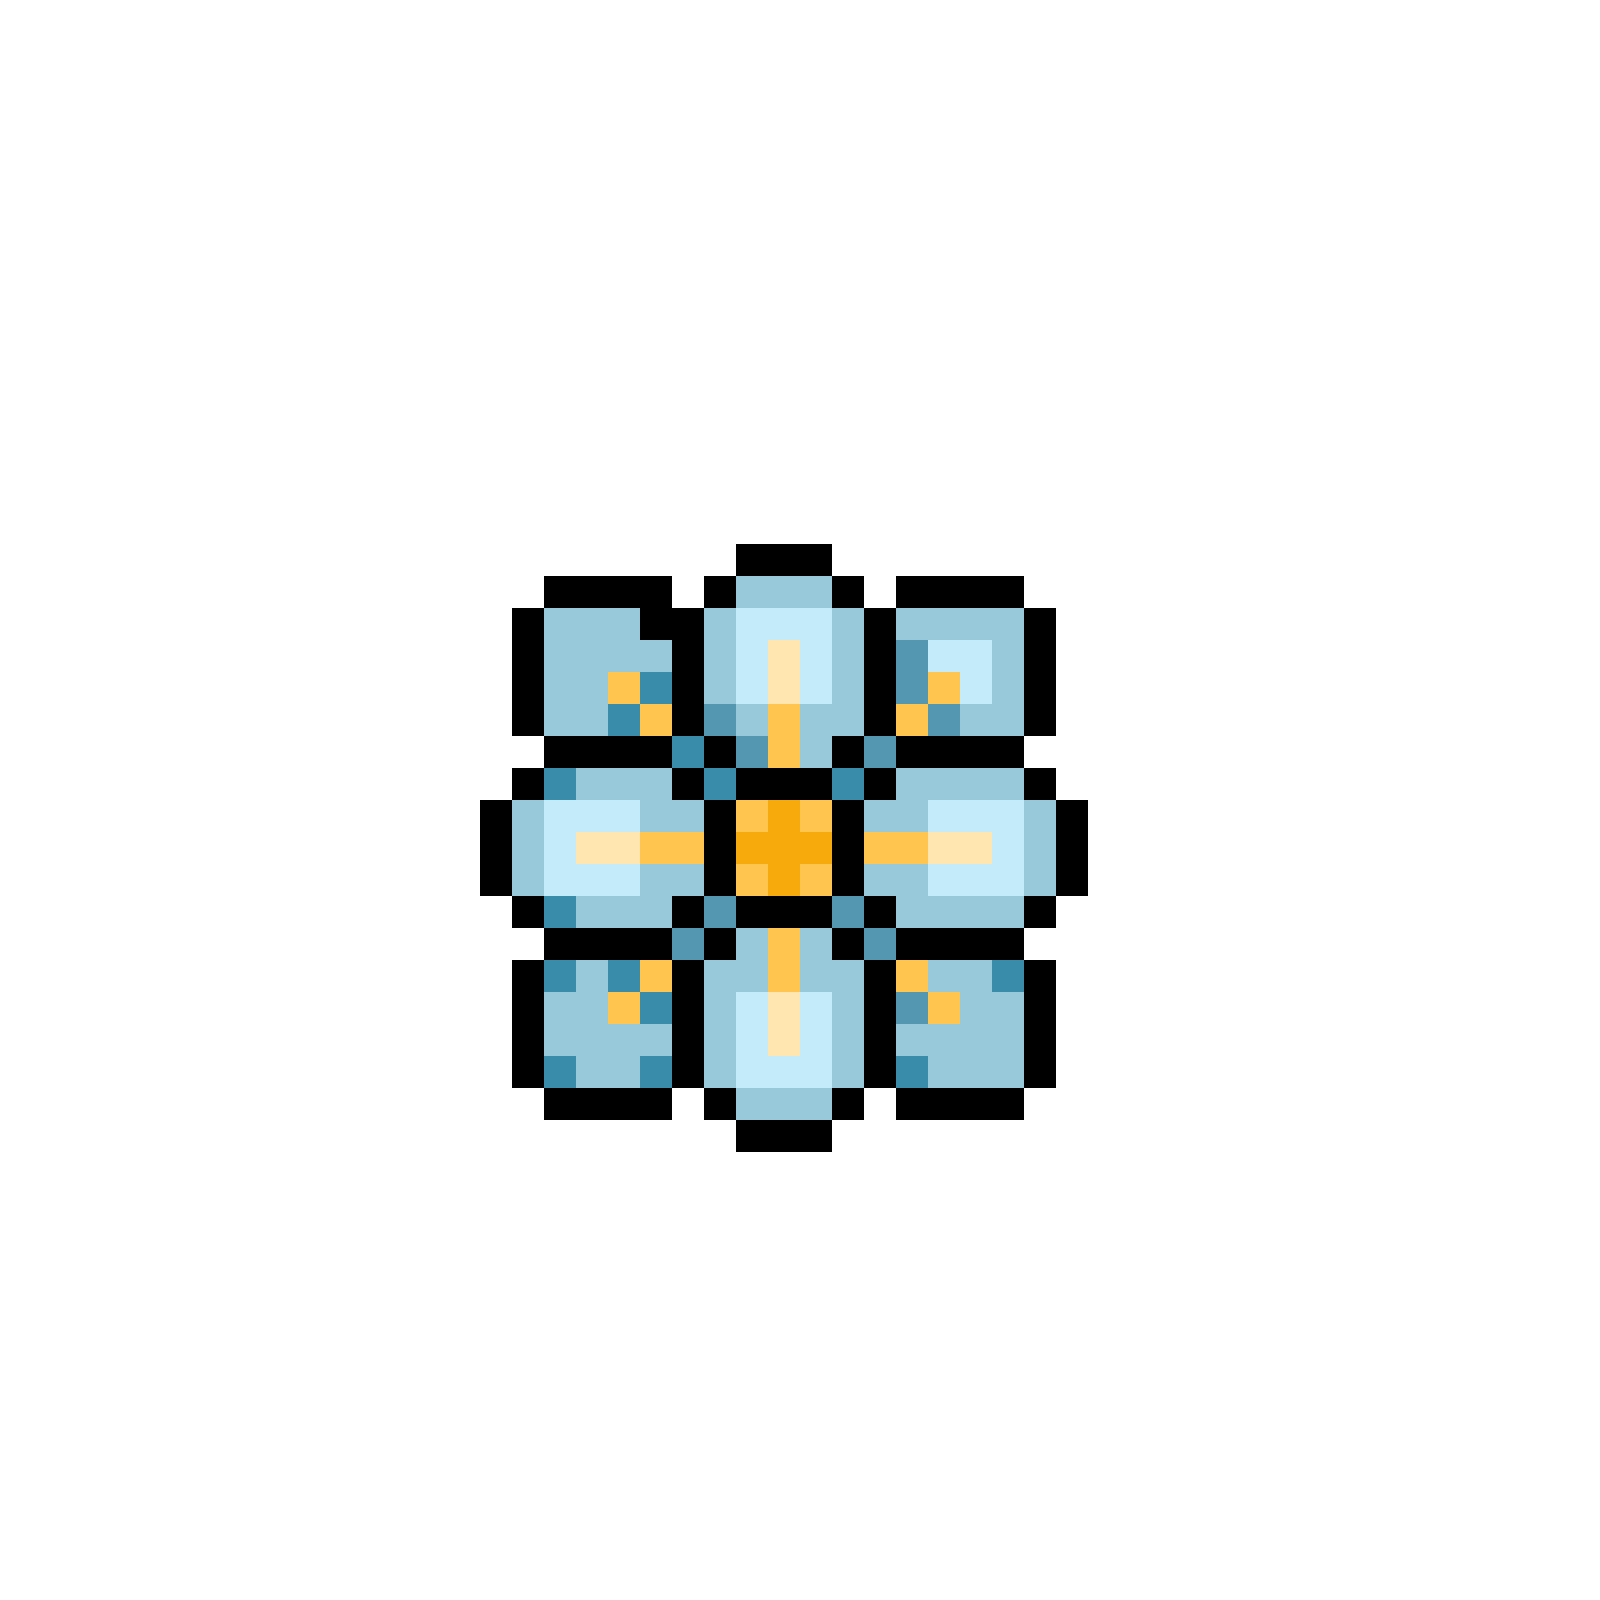
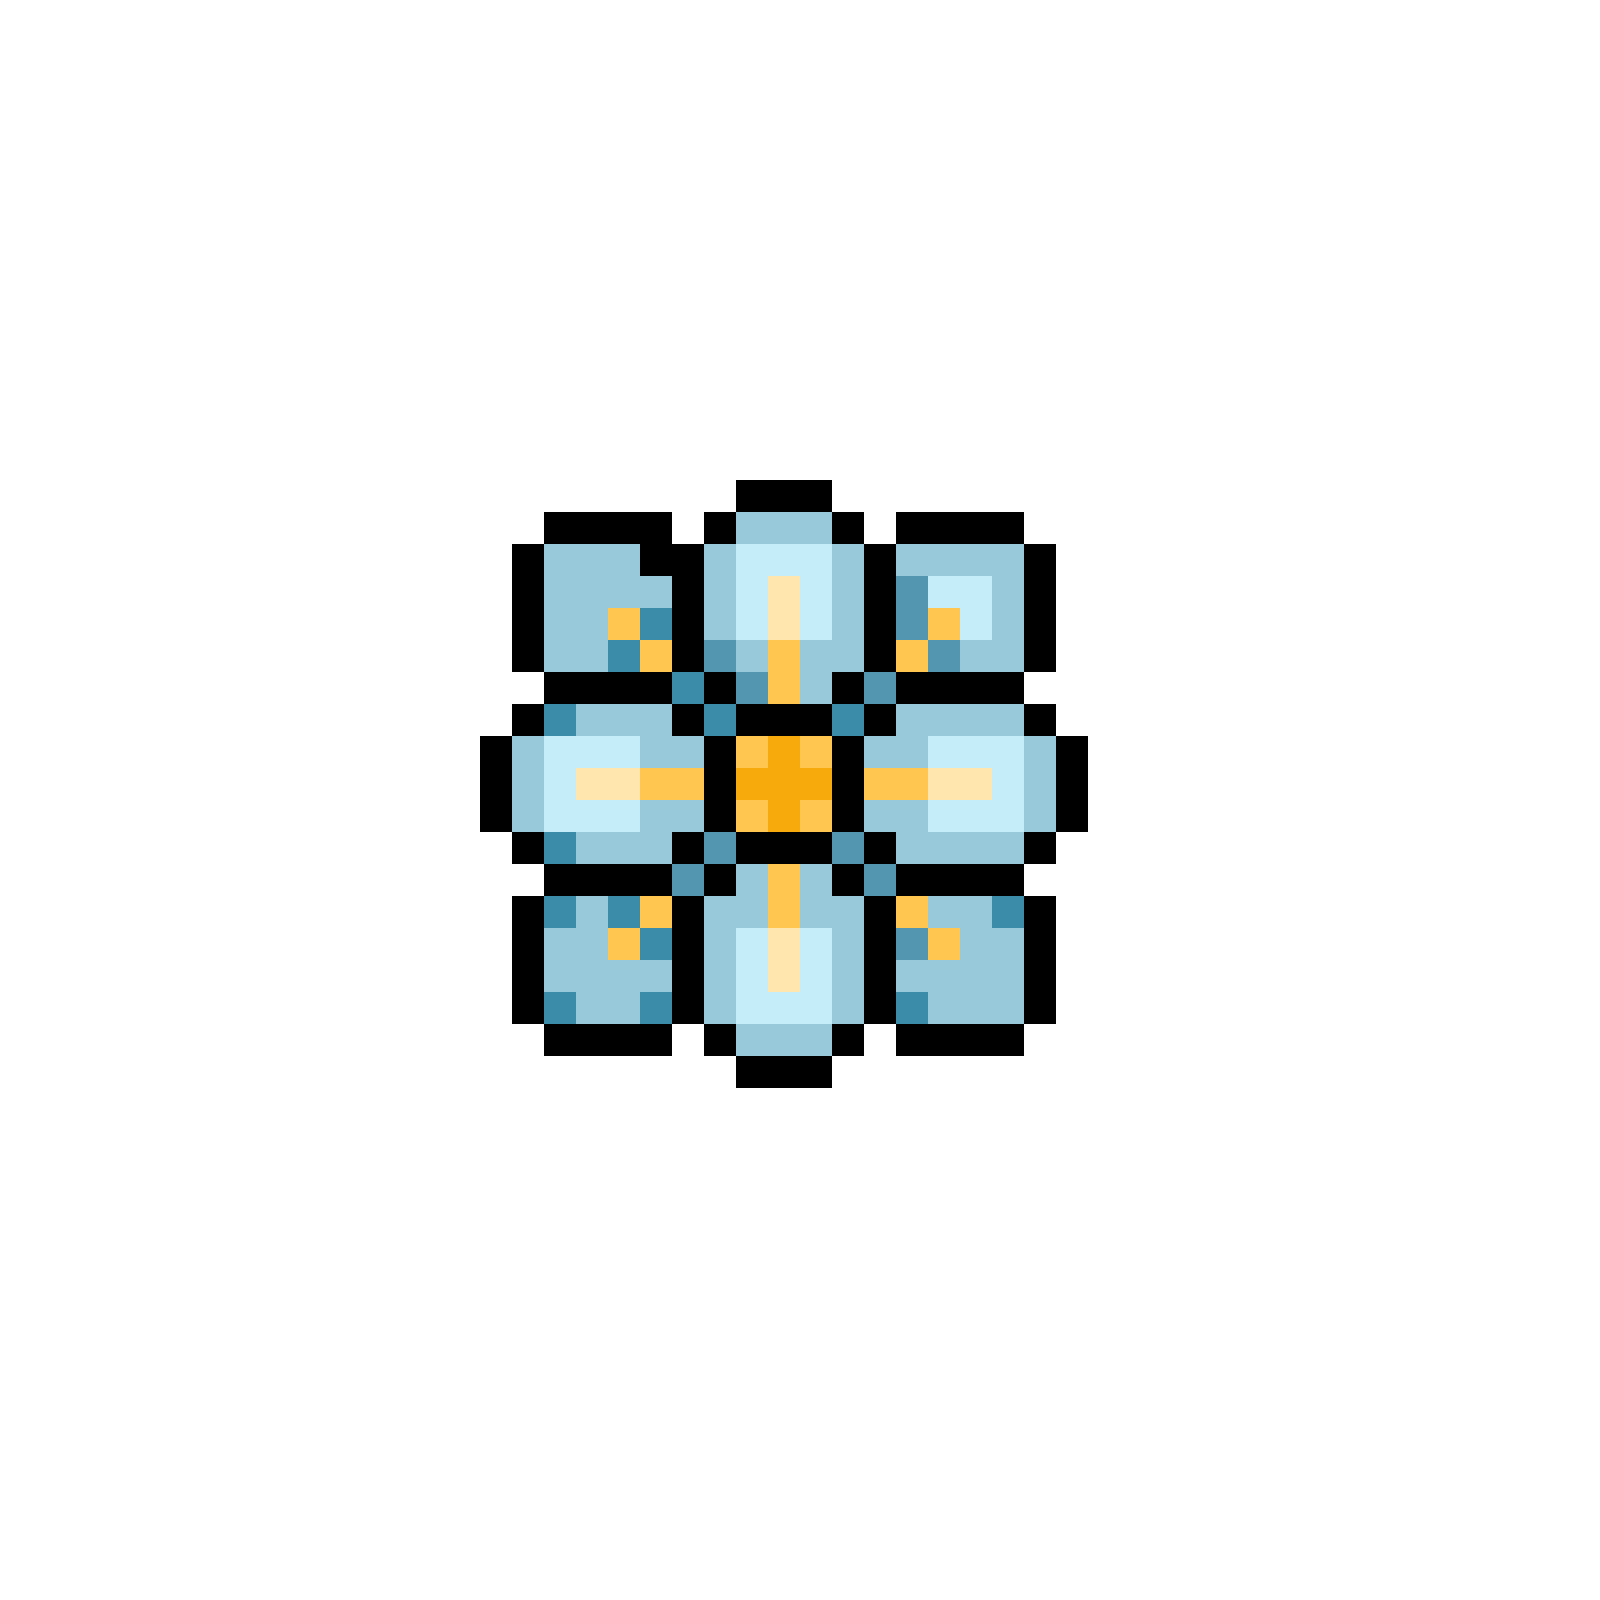
light dark bloem

Changed region(s): [[0.2812, 0.2812, 0.6875, 0.7188]]

diff --git a/index.html b/index.html
@@ -38,7 +38,12 @@
         <ul class="no-bullets">
           <li>
             <img src="images/sona.png" alt="persona" />
-            <img src="images/flower1-light.png" alt="blue flower" />
+            <picture>
+             <source
+                 srcset="images/flower1-dark.png"
+                media="(prefers-color-scheme: dark)"/>
+                <img src="images/flower1-light.png"/>
+             </picture>
             <img src="images/flower2-light.png" alt="creepy flower" />
           </li>
         </ul>

diff --git a/css/normal.css b/css/normal.css
@@ -15,7 +15,6 @@
 
 html {
   color-scheme: light dark;
-  background-image: #4dbd53;
 }
 
 /**************************
